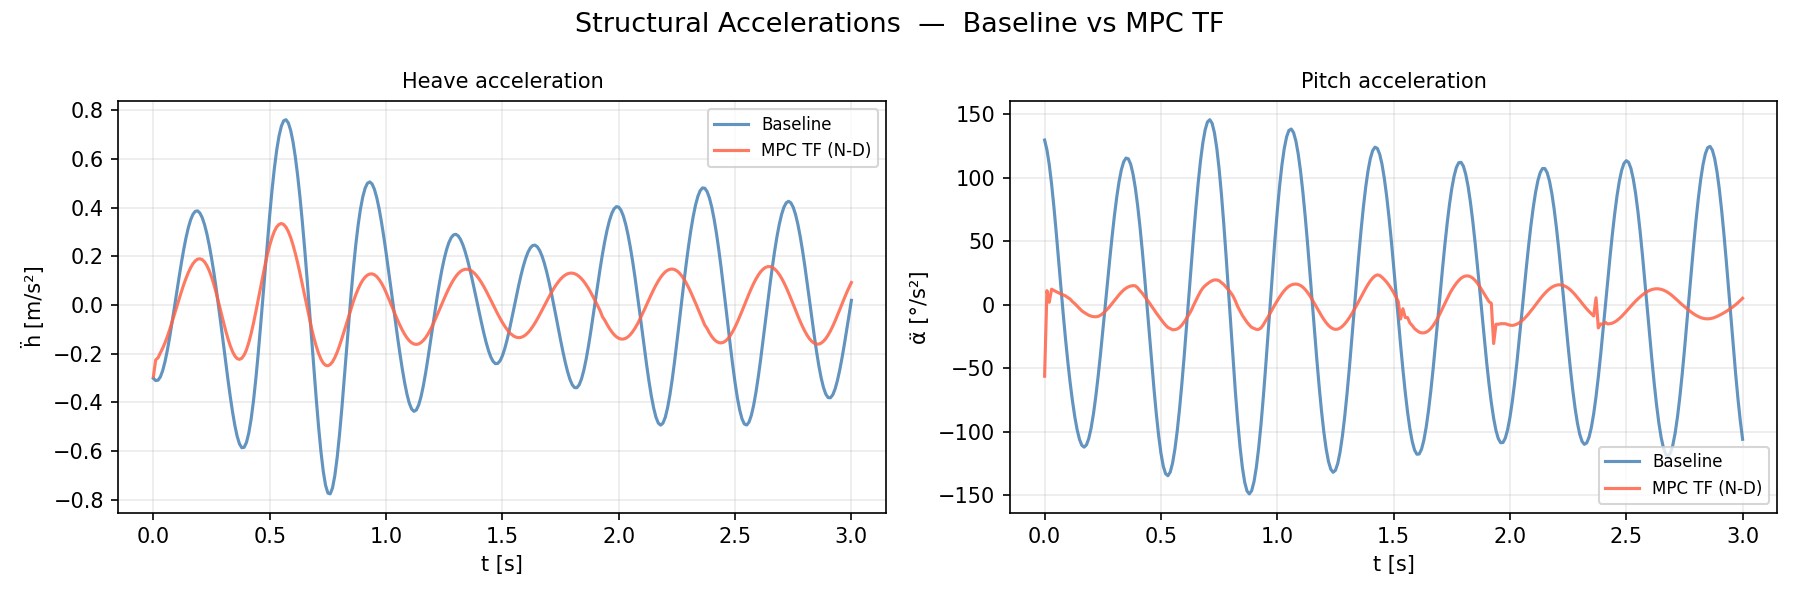
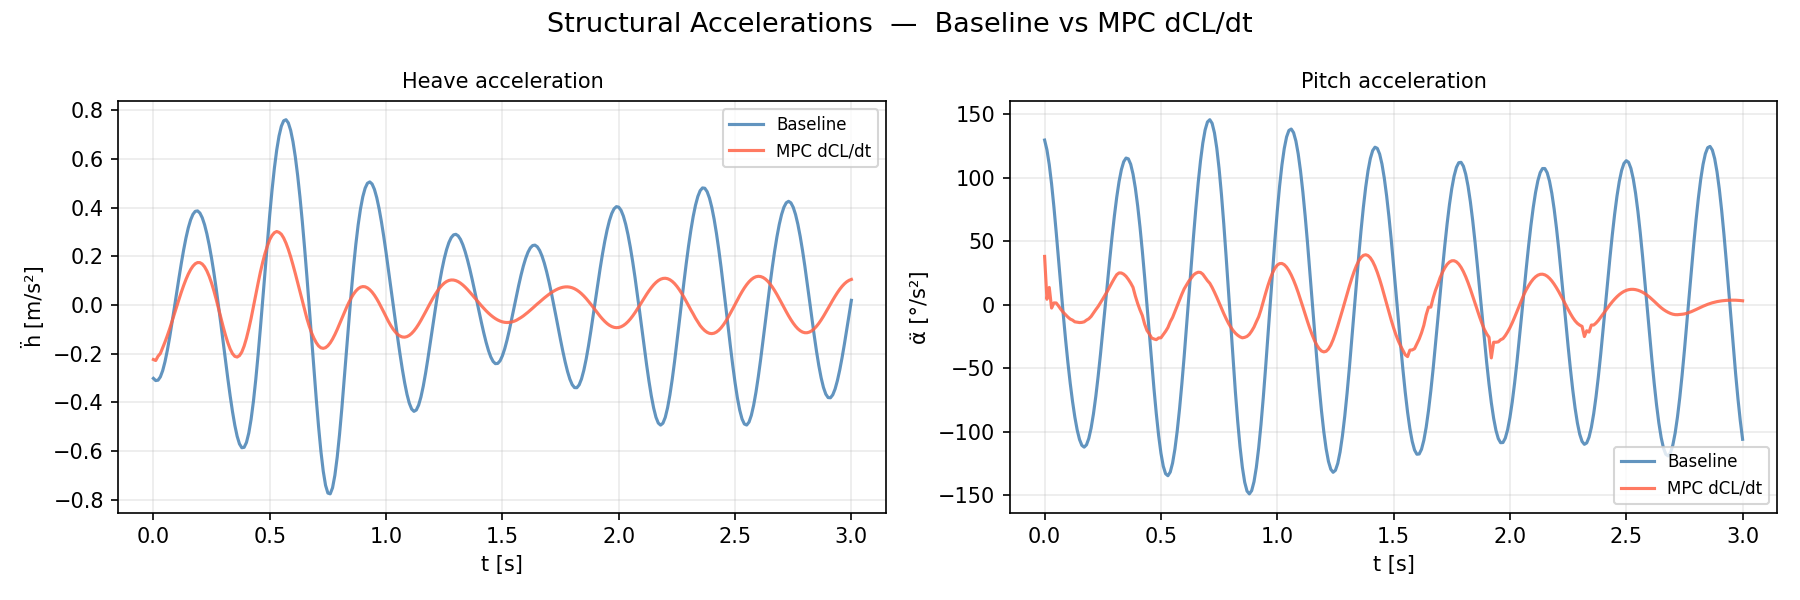
proportional derivative just on CL one gust

diff --git a/src/test_mpc.py b/src/test_mpc.py
@@ -1,7 +1,7 @@
 #!/usr/bin/env python3
 """
-Test script: Baseline vs MPC (TF N-D GradientTape solver).
-Single 1-cosine gust, duration 1s, T_END=2s.
+Test script: Baseline vs MPC (dC_L/dt rate regulator).
+Single 1-cosine gust, duration 1s, T_END=3s.
 """
 import numpy as np
 import sys
@@ -18,20 +18,20 @@ import matplotlib.pyplot as plt
 # PARAMETERS
 # ─────────────────────────────────────────────────────────────
 U_INF       = 75.0
-T_END       = 3.0     # 1s gust + 2s tail
+T_END       = 20.0
 DT          = 0.01
 MPC_HORIZON = 10      # 0.1s horizon
 
-# GLA weights — baseline amplitudes at U=75:
-#   C_L=0.0484, C_M=0.00511, h=0.00428m, a=0.00823rad
+# Combined: Q_CL drives C_L→0, Q_dCL smooths the C_L trajectory
 Q_CL  = 1.0 / 0.0484**2
 Q_CM  = 10.0 / 0.00511**2
 Q_h   = 1.0 / 0.00428**2
 Q_a   = 5.0 / 0.00823**2
 Q_hd  = 0.0
 Q_ad  = 0.0
+Q_dCL = 1.0 / 0.005**2    # same scale as Q_CL*C_L_rms^2 ≈ 1
 R_mpc = 1.0 / 2.0**2
-R_du  = 2.0 / 2.0**2   # rate cost — smooth δ sequence, less structural excitation
+R_du  = 2.0 / 2.0**2
 
 # ─────────────────────────────────────────────────────────────
 # SETUP
@@ -52,17 +52,17 @@ for _ in range(200):
     _z_trim, _CL_trim, _CM_trim = aero_model.step(_z_trim, 0., 0., 0., 0., 0., 0., U_INF, DT)
 print(f"  C_L_trim = {float(_CL_trim):.5f},  C_M_trim = {float(_CM_trim):.5f}")
 
-print("Initializing MPC (TF N-D solver)...")
+print("Initializing MPC (Q_CL + Q_dCL combined)...")
 mpc_tf = MPCController(aero_model, U_INF, DT,
                        Q_CL=Q_CL, Q_CM=Q_CM,
                        Q_h=Q_h,   Q_a=Q_a,
                        Q_hd=Q_hd, Q_ad=Q_ad,
                        R=R_mpc, R_du=R_du, N=MPC_HORIZON, delta_max=20.0,
                        CL_trim=float(_CL_trim), CM_trim=float(_CM_trim),
-                       use_tf_solver=True)
+                       use_tf_solver=True, Q_dCL=Q_dCL)
 
 # ─────────────────────────────────────────────────────────────
-# GUST PROFILE — single 1-cosine, duration 1s
+# GUST PROFILE — single 1-cosine gust at t=0
 # ─────────────────────────────────────────────────────────────
 _GUST_W0  = 60.0
 _GUST_DUR = 1.0
@@ -79,26 +79,27 @@ print(f"\nRunning BASELINE (no control)...")
 res_b = run_mpc_simulation(U_INF, T_END, DT, aero_model, None, A_s, B_s,
                            use_ekf=False, gust_profile=single_gust)
 
-print(f"Running MPC TF (N-D GradientTape, C_L observer)...")
+print(f"Running MPC (dC_L/dt regulator, C_L observer)...")
 res_tf = run_mpc_simulation(U_INF, T_END, DT, aero_model, mpc_tf, A_s, B_s,
                             use_ekf=True, gust_profile=single_gust)
 
 # ─────────────────────────────────────────────────────────────
-# METRICS
+# METRICS — gust window [0, 1.5s]
 # ─────────────────────────────────────────────────────────────
 def amplitude(arr):
     return (arr.max() - arr.min()) / 2.0
+
+_W_END = _GUST_DUR + 0.5   # [0, 1.5s]
 
 def amp_window(res, t_start, t_end):
     mask = (res['t'] >= t_start) & (res['t'] <= t_end)
     return {k: amplitude(res[k][mask]) for k in ('h','a','h_ddot','a_ddot','C_L','C_M')}
 
-_W_END = _GUST_DUR + 0.5   # [0, 1.5s]
-
-print("\n── Gust window  [0 – {:.1f}s] ──────────────────────────────────────────".format(_W_END))
 gb  = amp_window(res_b,  0.0, _W_END)
 gtf = amp_window(res_tf, 0.0, _W_END)
-print(f"{'':12s}  {'Baseline':>10s}  {'MPC-TF':>10s}  {'Red%':>7s}")
+
+print(f"\n── Gust window [0 – {_W_END:.1f}s] ──────────────────────────────────────────")
+print(f"{'':12s}  {'Baseline':>10s}  {'MPC-dCL':>10s}  {'Red%':>7s}")
 for name in ('h','a','h_ddot','a_ddot','C_L','C_M'):
     b, tf_ = gb[name], gtf[name]
     print(f"  {name:<10s}  {b:10.5f}  {tf_:10.5f}  {(b-tf_)/b*100 if b>0 else 0:+6.1f}%")
@@ -109,114 +110,78 @@ else:
     print("\n[OK] No NaNs detected")
 
 # ─────────────────────────────────────────────────────────────
-# PLOT HELPERS
+# PLOTS
 # ─────────────────────────────────────────────────────────────
 t_b  = res_b['t']
 t_tf = res_tf['t']
 
-BL   = dict(color='steelblue',  lw=1.5, alpha=0.85, label='Baseline')
-TFMPC= dict(color='tomato',     lw=1.5, alpha=0.85, label='MPC TF (N-D)')
-TRU  = dict(color='steelblue',  lw=1.5,             label='True $W_{gust}$')
-HAT  = dict(color='darkorange', lw=1.5, ls='--',    label='$\\hat{W}$ (C_L inversion)')
+BL    = dict(color='steelblue', lw=1.5, alpha=0.85, label='Baseline')
+TFMPC = dict(color='tomato',    lw=1.5, alpha=0.85, label='MPC dCL/dt')
+TRU   = dict(color='steelblue', lw=1.5,             label='True $W_{gust}$')
+HAT   = dict(color='darkorange',lw=1.5, ls='--',    label='$\\hat{W}$ (C_L inv.)')
 
 def fmt(ax, ylabel, title=None, legend=True):
     ax.set_xlabel('t [s]')
     ax.set_ylabel(ylabel)
     ax.grid(True, alpha=0.25)
-    if title:
-        ax.set_title(title, fontsize=10)
-    if legend:
-        ax.legend(fontsize=8)
+    if title: ax.set_title(title, fontsize=10)
+    if legend: ax.legend(fontsize=8)
 
-# ─────────────────────────────────────────────────────────────
-# FIGURE 1 — Structural state
-# ─────────────────────────────────────────────────────────────
+# Figure 1 — Structural state
 fig1, axes = plt.subplots(2, 2, figsize=(12, 7), sharex=True)
-fig1.suptitle('Structural State  —  Baseline vs MPC TF', fontsize=13)
-
-axes[0,0].plot(t_b,  res_b['h'],  **BL)
-axes[0,0].plot(t_tf, res_tf['h'], **TFMPC)
+fig1.suptitle('Structural State  —  Baseline vs MPC dCL/dt', fontsize=13)
+axes[0,0].plot(t_b, res_b['h'],  **BL);  axes[0,0].plot(t_tf, res_tf['h'],  **TFMPC)
 fmt(axes[0,0], 'h [m]', 'Heave displacement')
-
-axes[0,1].plot(t_b,  res_b['hd'],  **BL)
-axes[0,1].plot(t_tf, res_tf['hd'], **TFMPC)
+axes[0,1].plot(t_b, res_b['hd'], **BL);  axes[0,1].plot(t_tf, res_tf['hd'], **TFMPC)
 fmt(axes[0,1], 'ḣ [m/s]', 'Heave velocity')
-
-axes[1,0].plot(t_b,  np.rad2deg(res_b['a']),  **BL)
+axes[1,0].plot(t_b, np.rad2deg(res_b['a']),  **BL)
 axes[1,0].plot(t_tf, np.rad2deg(res_tf['a']), **TFMPC)
 fmt(axes[1,0], 'α [°]', 'Pitch angle')
-
-axes[1,1].plot(t_b,  np.rad2deg(res_b['ad']),  **BL)
+axes[1,1].plot(t_b, np.rad2deg(res_b['ad']),  **BL)
 axes[1,1].plot(t_tf, np.rad2deg(res_tf['ad']), **TFMPC)
 fmt(axes[1,1], 'α̇ [°/s]', 'Pitch rate')
-
-fig1.tight_layout()
-fig1.savefig('mpc_fig1_state.png', dpi=150)
+fig1.tight_layout(); fig1.savefig('mpc_fig1_state.png', dpi=150)
 print("[OK] mpc_fig1_state.png")
 
-# ─────────────────────────────────────────────────────────────
-# FIGURE 2 — Structural accelerations
-# ─────────────────────────────────────────────────────────────
+# Figure 2 — Accelerations
 fig2, axes = plt.subplots(1, 2, figsize=(12, 4), sharex=True)
-fig2.suptitle('Structural Accelerations  —  Baseline vs MPC TF', fontsize=13)
-
-axes[0].plot(t_b,  res_b['h_ddot'],  **BL)
-axes[0].plot(t_tf, res_tf['h_ddot'], **TFMPC)
+fig2.suptitle('Structural Accelerations  —  Baseline vs MPC dCL/dt', fontsize=13)
+axes[0].plot(t_b, res_b['h_ddot'],  **BL); axes[0].plot(t_tf, res_tf['h_ddot'], **TFMPC)
 fmt(axes[0], 'ḧ [m/s²]', 'Heave acceleration')
-
-axes[1].plot(t_b,  np.rad2deg(res_b['a_ddot']),  **BL)
+axes[1].plot(t_b, np.rad2deg(res_b['a_ddot']),  **BL)
 axes[1].plot(t_tf, np.rad2deg(res_tf['a_ddot']), **TFMPC)
 fmt(axes[1], 'α̈ [°/s²]', 'Pitch acceleration')
-
-fig2.tight_layout()
-fig2.savefig('mpc_fig2_accels.png', dpi=150)
+fig2.tight_layout(); fig2.savefig('mpc_fig2_accels.png', dpi=150)
 print("[OK] mpc_fig2_accels.png")
 
-# ─────────────────────────────────────────────────────────────
-# FIGURE 3 — Gust estimate vs true
-# ─────────────────────────────────────────────────────────────
+# Figure 3 — Gust estimate
 fig3, ax = plt.subplots(figsize=(10, 4))
 fig3.suptitle('Gust Velocity  —  True vs $C_L$-inversion estimate', fontsize=13)
 ax.plot(t_tf, res_tf['W_gust'], **TRU)
 ax.plot(t_tf, res_tf['W_hat'],  **HAT)
 fmt(ax, '$W_{gust}$ [m/s]')
-fig3.tight_layout()
-fig3.savefig('mpc_fig3_gust.png', dpi=150)
+fig3.tight_layout(); fig3.savefig('mpc_fig3_gust.png', dpi=150)
 print("[OK] mpc_fig3_gust.png")
 
-# ─────────────────────────────────────────────────────────────
-# FIGURE 4 — Control input
-# ─────────────────────────────────────────────────────────────
+# Figure 4 — Control input
 fig4, axes = plt.subplots(1, 2, figsize=(12, 4), sharex=True)
-fig4.suptitle('Control Input  —  MPC TF', fontsize=13)
-
+fig4.suptitle('Control Input  —  MPC dCL/dt', fontsize=13)
 delta_tf = res_tf['delta']
 axes[0].plot(t_tf, delta_tf, **TFMPC)
 axes[0].axhline( 20, color='k', ls=':', lw=0.8, label='±20° sat.')
 axes[0].axhline(-20, color='k', ls=':', lw=0.8)
 fmt(axes[0], 'δ [°]', 'Flap deflection')
-
 axes[1].plot(t_tf, np.gradient(delta_tf, t_tf), **TFMPC)
 fmt(axes[1], 'δ̇ [°/s]', 'Flap rate')
-
-fig4.tight_layout()
-fig4.savefig('mpc_fig4_control.png', dpi=150)
+fig4.tight_layout(); fig4.savefig('mpc_fig4_control.png', dpi=150)
 print("[OK] mpc_fig4_control.png")
 
-# ─────────────────────────────────────────────────────────────
-# FIGURE 5 — Aerodynamic coefficients
-# ─────────────────────────────────────────────────────────────
+# Figure 5 — Aerodynamic coefficients
 fig5, axes = plt.subplots(1, 2, figsize=(12, 4), sharex=True)
-fig5.suptitle('Aerodynamic Coefficients  —  Baseline vs MPC TF', fontsize=13)
-
-axes[0].plot(t_b,  res_b['C_L'],  **BL)
-axes[0].plot(t_tf, res_tf['C_L'], **TFMPC)
+fig5.suptitle('Aerodynamic Coefficients  —  Baseline vs MPC dCL/dt', fontsize=13)
+axes[0].plot(t_b, res_b['C_L'],  **BL); axes[0].plot(t_tf, res_tf['C_L'], **TFMPC)
 fmt(axes[0], '$C_L$', 'Lift coefficient')
-
-axes[1].plot(t_b,  res_b['C_M'],  **BL)
-axes[1].plot(t_tf, res_tf['C_M'], **TFMPC)
+axes[1].plot(t_b, res_b['C_M'],  **BL); axes[1].plot(t_tf, res_tf['C_M'], **TFMPC)
 fmt(axes[1], '$C_M$', 'Pitching moment coefficient')
-
-fig5.tight_layout()
-fig5.savefig('mpc_fig5_aero.png', dpi=150)
+fig5.tight_layout(); fig5.savefig('mpc_fig5_aero.png', dpi=150)
 print("[OK] mpc_fig5_aero.png")

diff --git a/src/control/mpc.py b/src/control/mpc.py
@@ -32,21 +32,25 @@ class MPCController:
         delta_max is the maximum flap deflection (saturation)
     """
 
-    def __init__(self, aero_model, U_INF, DT, Q_CL=0.0, Q_CM=0.0,
-                 Q_h=0.0, Q_a=0.0, Q_hd=0.0, Q_ad=0.0,
+    def __init__(self, aero_model, U_INF, DT,
+                 Q_CL=0.0, Q_CM=0.0, Q_h=0.0, Q_a=0.0, Q_hd=0.0, Q_ad=0.0,
                  R=1.0, R_du=0.0, N=10, delta_max=20.0, CL_trim=0.0, CM_trim=0.0,
-                 use_tf_solver=False):
+                 use_tf_solver=False, Q_z=0.0, z_trim=None,
+                 Q_dCL=0.0):
         self.aero_model = aero_model
         self.U_INF = U_INF
         self.DT = DT
-        self.Q_CL = Q_CL
-        self.Q_CM = Q_CM
-        self.Q_h  = Q_h
-        self.Q_a  = Q_a
-        self.Q_hd = Q_hd
-        self.Q_ad = Q_ad
-        self.R    = R
-        self.R_du = R_du   # rate cost on Δu — penalizes step changes that excite structural modes
+        self.Q_CL  = Q_CL
+        self.Q_CM  = Q_CM
+        self.Q_h   = Q_h
+        self.Q_a   = Q_a
+        self.Q_hd  = Q_hd
+        self.Q_ad  = Q_ad
+        self.R     = R
+        self.R_du  = R_du
+        self.Q_z   = Q_z
+        self.z_trim = np.zeros(aero_model.num_latent_states) if z_trim is None else z_trim
+        self.Q_dCL = Q_dCL   # rate regulator: penalizes dC_L/dt — zero between gusts, no trim needed
         self.N = N
         self.delta_max = delta_max
         self.CL_trim = CL_trim
@@ -180,6 +184,7 @@ class MPCController:
         U_INF  = tf.constant(self.U_INF, dtype=dtype)
         DT     = tf.constant(self.DT, dtype=dtype)
         q_dyn  = tf.constant(0.5 * 1.225 * self.U_INF**2 * 0.05, dtype=dtype)
+        z_trim = tf.constant(self.z_trim.astype(np.float64), dtype=dtype)
 
         M_hh = tf.constant(float(M_WING + M_FLAP), dtype=dtype)
         M_aa = tf.constant(float(I_WING + I_FLAP_EA), dtype=dtype)
@@ -208,29 +213,33 @@ class MPCController:
             return x + (DT/6.0)*(k1 + 2*k2 + 2*k3 + k4)
 
         @tf.function
-        def adam_step(x0, z0, W_s, u0_prev,
-                      Q_CL, Q_CM, Q_h, Q_a, R, R_du):
+        def adam_step(x0, z0, W_s, u0_prev, CL_prev,
+                      Q_CL, Q_CM, Q_h, Q_a, Q_dCL, R, R_du):
             with tf.GradientTape() as tape:
                 u_cl = tf.clip_by_value(u_var, -dm, dm)
                 x = x0; z = z0
-                J = tf.zeros((), dtype=dtype)
-                u_p = u0_prev
+                J    = tf.zeros((), dtype=dtype)
+                u_p  = u0_prev
+                CL_p = CL_prev
                 for i in tf.range(N):
                     u_i = u_cl[i]
                     z, C_L, C_M = aero.step_tf(
                         z, x[0], x[1], x[2], x[3],
                         u_i, W_s[i], U_INF, DT)
                     x = rk4(x, q_dyn*C_L, q_dyn*C_M)
-                    J = J + (Q_CL*C_L**2 + Q_CM*C_M**2
+                    dCL = C_L - CL_p
+                    J = J + (Q_CL*C_L**2  + Q_CM*C_M**2
                              + Q_h*x[0]**2 + Q_a*x[2]**2
-                             + R*u_i**2 + R_du*(u_i - u_p)**2)
-                    u_p = u_i
+                             + Q_dCL*dCL**2
+                             + R*u_i**2    + R_du*(u_i - u_p)**2)
+                    u_p  = u_i
+                    CL_p = C_L
             opt.apply_gradients([(tape.gradient(J, u_var), u_var)])
 
         return adam_step
 
-    def solve_tf(self, x_hat, z_hat, W_gust_seq, gust_phase=True,
-                 n_steps=15):
+    def solve_tf(self, x_hat, z_hat, W_gust_seq, CL_meas=0.0,
+                 gust_phase=True, n_steps=15):
         """N-D solver: Adam on full u-sequence via @tf.function rollout."""
         dtype = tf.float64
         dm    = float(self.delta_max)
@@ -241,17 +250,19 @@ class MPCController:
         z0      = tf.constant(z_hat,      dtype=dtype)
         W_s     = tf.constant(W_gust_seq, dtype=dtype)
         u0_prev = tf.constant(float(self.delta_applied), dtype=dtype)
+        CL_prev = tf.constant(float(CL_meas),            dtype=dtype)
 
-        Q_CL = tf.constant(float(self.Q_CL), dtype=dtype)
-        Q_CM = tf.constant(float(self.Q_CM), dtype=dtype)
-        Q_h  = tf.constant(float(self.Q_h) if gust_phase else 0.0, dtype=dtype)
-        Q_a  = tf.constant(float(self.Q_a) if gust_phase else 0.0, dtype=dtype)
-        R    = tf.constant(float(self.R),    dtype=dtype)
-        R_du = tf.constant(float(self.R_du), dtype=dtype)
+        Q_CL  = tf.constant(float(self.Q_CL),  dtype=dtype)
+        Q_CM  = tf.constant(float(self.Q_CM),  dtype=dtype)
+        Q_h   = tf.constant(float(self.Q_h)  if gust_phase else 0.0, dtype=dtype)
+        Q_a   = tf.constant(float(self.Q_a)  if gust_phase else 0.0, dtype=dtype)
+        Q_dCL = tf.constant(float(self.Q_dCL), dtype=dtype)
+        R     = tf.constant(float(self.R),     dtype=dtype)
+        R_du  = tf.constant(float(self.R_du),  dtype=dtype)
 
         for _ in range(n_steps):
-            self._tf_adam_step(x0, z0, W_s, u0_prev,
-                               Q_CL, Q_CM, Q_h, Q_a, R, R_du)
+            self._tf_adam_step(x0, z0, W_s, u0_prev, CL_prev,
+                               Q_CL, Q_CM, Q_h, Q_a, Q_dCL, R, R_du)
 
         u_opt = np.clip(self._tf_u_var.numpy(), -dm, dm)
         self.u_prev = u_opt
@@ -427,6 +438,7 @@ def run_mpc_simulation(U_INF, T_END, DT, aero_model, mpc_controller, A_s, B_s,
             if mpc_enabled:
                 if mpc_controller.use_tf_solver:
                     delta, _ = mpc_controller.solve_tf(x_hat, z_hat, W_gust_seq,
+                                                        CL_meas=float(C_L_hist[i]),
                                                         gust_phase=gust_phase)
                 else:
                     delta, _ = mpc_controller.solve(x_hat, z_hat, W_gust_seq,
@@ -476,9 +488,10 @@ def run_mpc_simulation(U_INF, T_END, DT, aero_model, mpc_controller, A_s, B_s,
             a_hat  = leak * x_hat[2] + ad_hat * DT
             x_hat  = np.array([h_hat, hd_hat, a_hat, ad_hat])
 
-            # 2. Gust estimate: only when MPC is active (gust window)
-            #    Outside gust window W_hat=0 — avoids spurious estimates
-            #    from structural oscillations saturating the bisection
+            # 2. Gust estimate: threshold to reject spurious W_hat from post-gust
+            #    structural oscillations. Small C_L deviations map to large W_hat
+            #    near trim; thresholding at 5 m/s suppresses the DC flap bias
+            #    that otherwise corrupts the LDNet latent state between gusts.
             if mpc_enabled:
                 W_hat = _estimate_W_from_CL(aero_model, z_hat, x_hat, delta,
                                              C_L_hist[i], U_INF, DT)
